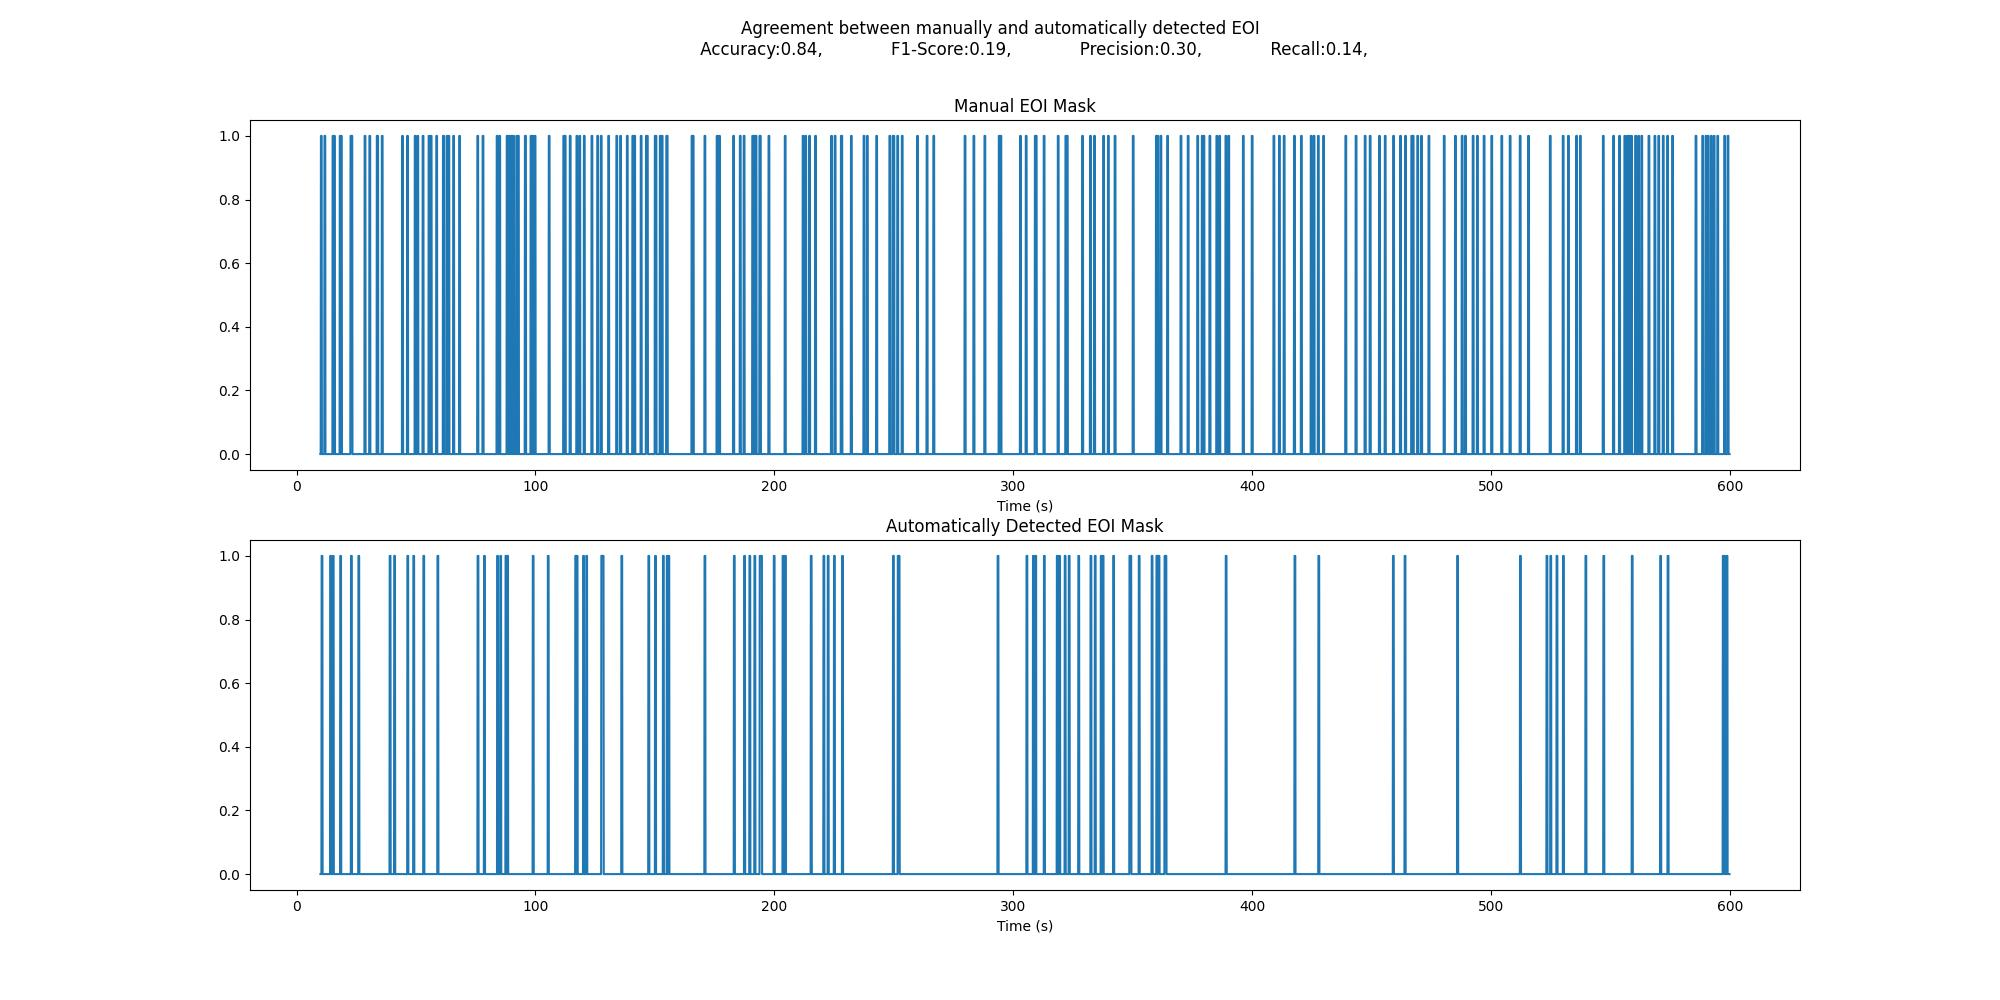
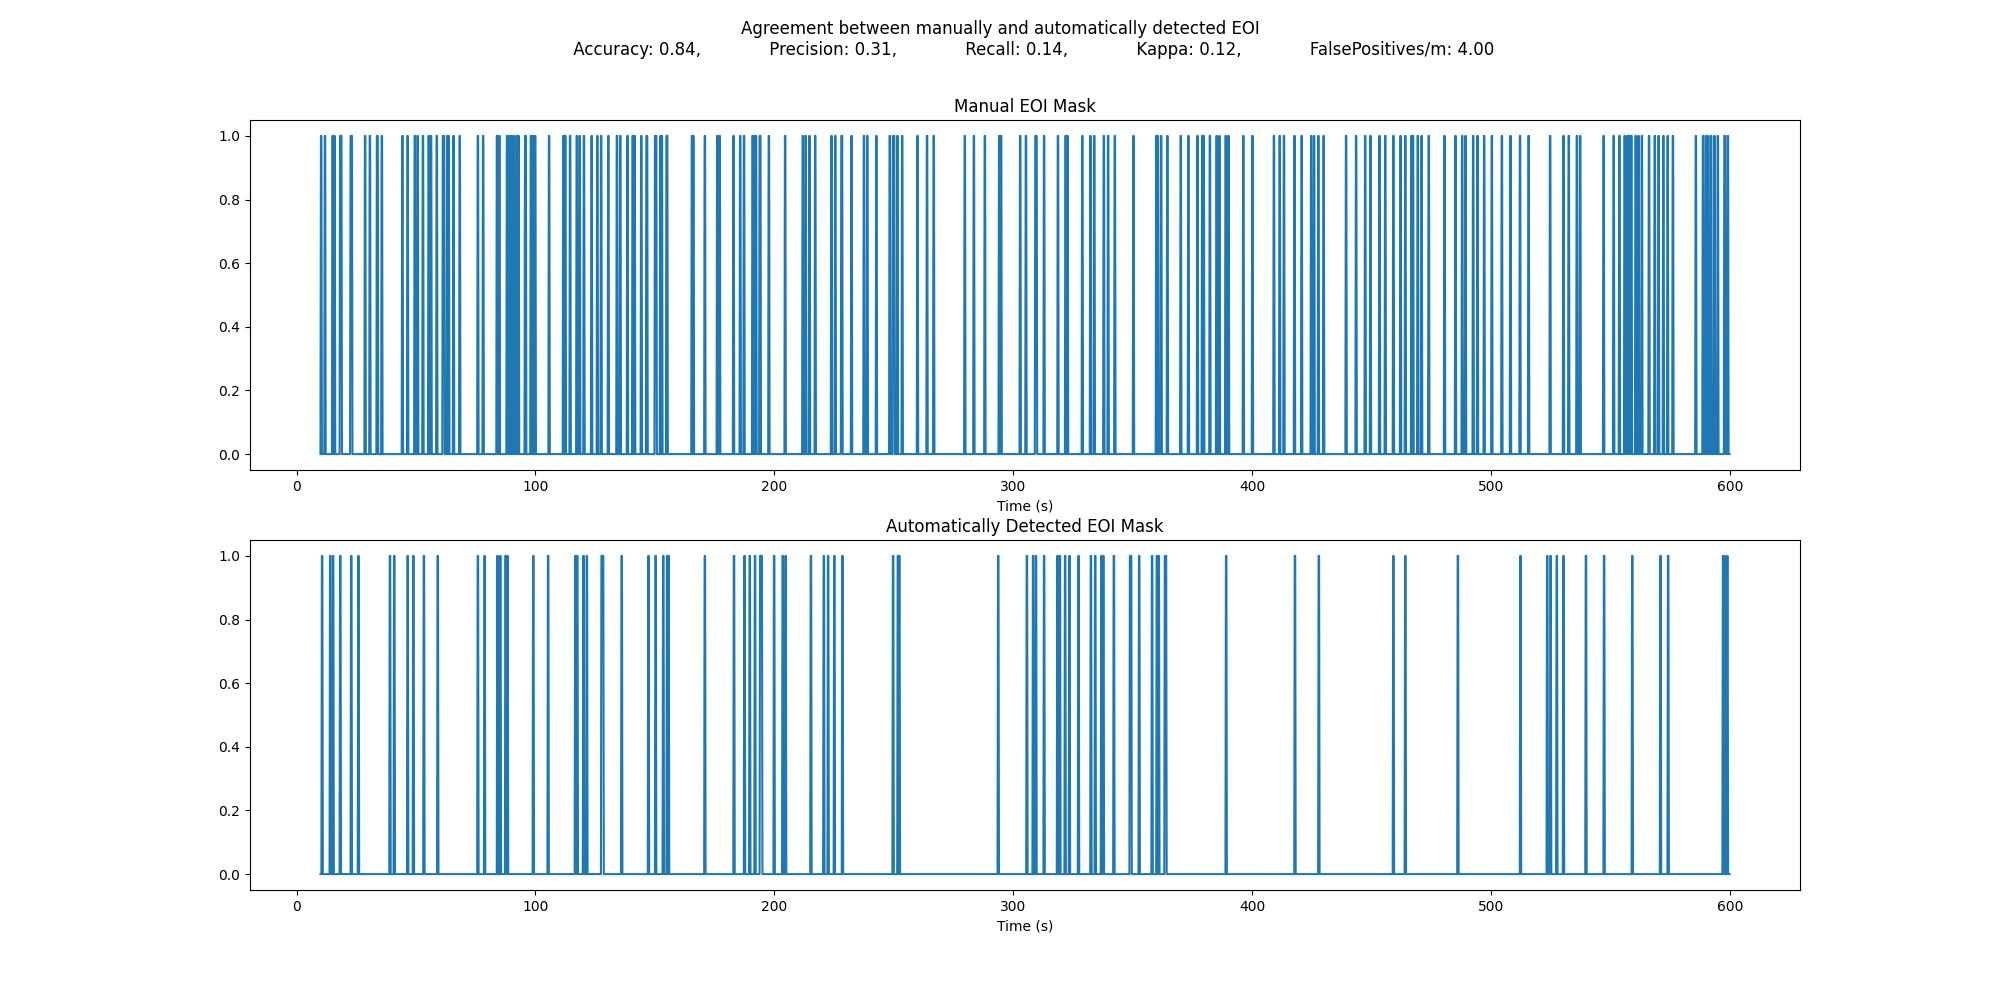
EOI_Duration is set to 400ms. Optimize calculation of performance metrics by using vectorization. Include the performance metric False Positives per Minute.

diff --git a/src/persyst_spikes_evaluator.py b/src/persyst_spikes_evaluator.py
@@ -1,14 +1,19 @@
-import os
-import re
 import mne
 import pandas as pd
 import numpy as np
 import matplotlib.pyplot as plt
 
-from sklearn.metrics import confusion_matrix, accuracy_score, f1_score, precision_score, recall_score
+from sklearn.metrics import (
+    confusion_matrix,
+    accuracy_score,
+    f1_score,
+    precision_score,
+    recall_score,
+    cohen_kappa_score,
+)
 
 
-class PersystSpikesEvaluator():
+class PersystSpikesEvaluator:
     """
     This class provides methods to evaluate Spike annotations generated with Persyst.
     """
@@ -37,13 +42,12 @@ class PersystSpikesEvaluator():
         """
         Read the Persyst IEEG data from the file.
         """
-        self.ieeg_data = mne.io.read_raw_persyst(
-            self.ieeg_filepath, verbose=False)
+        self.ieeg_data = mne.io.read_raw_persyst(self.ieeg_filepath, verbose=False)
         self.time = self.ieeg_data.times
         self.nr_samples = self.ieeg_data.n_times
         self.fs = self.ieeg_data.info["sfreq"]
 
-    def parse_eoi(self, eoi_key: str = 'Spike', visual_eoi_key: str = 'elpi'):
+    def parse_eoi(self, eoi_key: str = "Spike", visual_eoi_key: str = "elpi"):
         """
         Parse the events in the IEEG data to separate the manually and automatically detected EOIs.
 
@@ -54,29 +58,29 @@ class PersystSpikesEvaluator():
         visual_eoi_key : str, optional
             Keywords used to identify the visual EOIs, by default 'elpi'
         """
-        self.manual_eoi = []
-        self.auto_eoi = []
-        for annotation in self.ieeg_data.annotations:
-            annot_label = annotation['description']
-            annot_start_time = annotation['onset']
-            print(annot_label)
-            print(annot_start_time)
-
-            if eoi_key.lower() in annot_label.lower():
-                if visual_eoi_key in annot_label:
-                    self.manual_eoi.append(annot_start_time)
-                else:
-                    self.auto_eoi.append(annot_start_time)
-
-        self.manual_eoi = np.array(self.manual_eoi)
-        self.auto_eoi = np.array(self.auto_eoi)
+        annotations = pd.DataFrame(self.ieeg_data.annotations)
+        eoi_sel_maks = annotations["description"].str.contains(eoi_key, case=False)
+        manual_sel_mask = eoi_sel_maks & annotations["description"].str.contains(
+            visual_eoi_key, case=False
+        )
+        auto_sel_mask = eoi_sel_maks & ~annotations["description"].str.contains(
+            visual_eoi_key, case=False
+        )
+        self.manual_eoi = annotations.loc[manual_sel_mask, "onset"].to_numpy()
+        self.auto_eoi = annotations.loc[auto_sel_mask, "onset"].to_numpy()
         print(f"Number of manually detected EOI: {len(self.manual_eoi)}")
         print(f"Number of automatically detected EOI: {len(self.auto_eoi)}")
 
     def get_manual_eoi_max_time(self):
-        return np.max(self.manual_eoi)+1
+        return np.max(self.manual_eoi) + 1 if len(self.manual_eoi) > 0 else 0
 
-    def measure_eoi_types_agreement(self, eoi_duration: float = 0.400, min_time: float = 0, max_time: float = float('inf'), bin_duration: float = 0.1, min_bin_overlap: float = 0.5):
+    def measure_eoi_types_agreement(
+        self,
+        eoi_duration: float = 0.400,
+        min_time: float = 0,
+        max_time: float = float("inf"),
+        bin_duration: float = 0.1,
+    ):
         """
         Calculate the agreement between the manually and automatically detected EOI types.
 
@@ -90,79 +94,84 @@ class PersystSpikesEvaluator():
             Last time point to consider events for the agreement calculation, by default float('inf'), i.e. full length of iEEG
         bin_duration : float, optional
             Width of the time bins to use for the agreement calculation, by default 100 ms
-        min_bin_overlap : float, optional
-            Minimum overlap between adjacent time bins to consider them valid, by default 0.5%
         """
 
-        if max_time == float('inf'):
+        if max_time == float("inf"):
             max_time = self.time[-1]
 
         # Select events within min_time and max_time
-        eval_manual_eoi = self.manual_eoi[np.logical_and(
-            self.manual_eoi >= min_time, self.manual_eoi <= max_time)]
-        eval_auto_eoi = self.auto_eoi[np.logical_and(
-            self.auto_eoi >= min_time, self.auto_eoi <= max_time)]
+        eval_manual_eoi = self.manual_eoi[
+            (self.manual_eoi >= min_time) & (self.manual_eoi <= max_time)
+        ]
+        eval_auto_eoi = self.auto_eoi[
+            (self.auto_eoi >= min_time) & (self.auto_eoi <= max_time)
+        ]
 
-        self.time_bin_array, self.manual_eoi_mask = self.__fill_events_mask(eval_manual_eoi, eoi_duration,
-                                                                            min_time, max_time, bin_duration, min_bin_overlap)
+        self.time_bin_array, self.manual_eoi_mask = self.__fill_events_mask(
+            eval_manual_eoi,
+            eoi_duration,
+            min_time,
+            max_time,
+            bin_duration,
+        )
 
-        self.time_bin_array, self.auto_eoi_mask = self.__fill_events_mask(eval_auto_eoi, eoi_duration,
-                                                                          min_time, max_time, bin_duration, min_bin_overlap)
+        self.time_bin_array, self.auto_eoi_mask = self.__fill_events_mask(
+            eval_auto_eoi,
+            eoi_duration,
+            min_time,
+            max_time,
+            bin_duration,
+        )
 
-    def __fill_events_mask(self, eoi_array: np.ndarray = None, eoi_duration: float = 0.400, min_time: float = 0, max_time: float = float('inf'), bin_duration: float = 0.1, min_bin_overlap: float = 0.5):
+    def __fill_events_mask(
+        self,
+        eoi_array: np.ndarray = None,
+        eoi_duration: float = 0.400,
+        min_time: float = 0,
+        max_time: float = float("inf"),
+        bin_duration: float = 0.1,
+    ):
         """
-        This function fills a boolean mask indicating the presence of EOIs in a time series.
+        Fills the events mask.
 
         Parameters
         ----------
         eoi_array : np.ndarray, optional
-            Array of EOI times, by default None
+            Array of event onsets, by default None
         eoi_duration : float, optional
-            Duration of the events, by default 400 ms
+            Duration of the events, by default 0.400
         min_time : float, optional
-            First time point to consider events for the agreement calculation, by default 0 s
+            Minimum time to consider events, by default 0
         max_time : float, optional
-            Last time point to consider events for the agreement calculation, by default float('inf'), i.e. full length of iEEG
+            Maximum time to consider events, by default float("inf")
         bin_duration : float, optional
-            Width of the time bins to use for the agreement calculation, by default 100 ms
-        min_bin_overlap : float, optional
-            Minimum overlap between adjacent time bins to consider them valid, by default 0.5%
+            Duration of each bin, by default 0.1
 
         Returns
         -------
-        eoi_mask : np.ndarray
-            Boolean mask indicating the presence of EOIs in the time series
+        np.ndarray, np.ndarray
+            Time bin array and event mask
         """
-        eoi_half_dur = eoi_duration/2
-        min_overlap_dur = bin_duration*min_bin_overlap
+
+        eoi_half_dur = eoi_duration / 2
 
         time_bin_array = np.arange(min_time, max_time, bin_duration)
         nr_bins = len(time_bin_array)
-        eoi_mask = np.full(nr_bins, False, dtype=bool)
+        eoi_mask = np.zeros(nr_bins, dtype=bool)
 
-        # Fill the manual events mask
-        for tbidx, tbin in enumerate(time_bin_array):
-            bin_start = tbin
-            bin_end = bin_start + bin_duration
+        eoi_start = eoi_array - eoi_half_dur
+        eoi_end = eoi_array + eoi_half_dur
 
-            for eoi_idx, eoi in enumerate(eoi_array):
-                eoi_start = eoi - eoi_half_dur
-                eoi_end = eoi + eoi_half_dur
+        for start_t, end_t in zip(eoi_start, eoi_end):
+            # Adjust for cases where start or end are outside the min_time and max_time range
+            eoi_start_adj = np.maximum(start_t, min_time) - min_time
+            eoi_end_adj = np.minimum(end_t, max_time) - min_time
 
-                # EOI extends beyond bin limits
-                overlap_a = (eoi_start <= bin_start) and (eoi_end >= bin_end)
+            # The rounding guarantees that a bin must overlap at least 50% with EOI to be marked as True
+            overlap_start = np.round((eoi_start_adj) / bin_duration).astype(int)
+            overlap_end = np.round((eoi_end_adj) / bin_duration).astype(int) - 1
 
-                # EOI start is within the bin and overlaps with the bin by at least min_bin_overlap%
-                overlap_b = (eoi_start >= bin_start) and (eoi_start <= bin_end) and (
-                    (bin_end-eoi_start) >= min_overlap_dur)
-
-                # EOI end is within the bin and overlaps with the bin by at least min_bin_overlap%
-                overlap_c = (eoi_end >= bin_start) and (eoi_end <= bin_end) and (
-                    (eoi_end-bin_start) >= min_overlap_dur)
-
-                if overlap_a or overlap_b or overlap_c:
-                    eoi_mask[tbidx] = True
-                    break
+            eoi_mask[overlap_start : overlap_end + 1] = True
 
         return time_bin_array, eoi_mask
 
@@ -170,41 +179,69 @@ class PersystSpikesEvaluator():
         """
         Calculates the performance metrics between manually and automatically detected EOIs.
 
-        Returns:
-            list: A list containing the accuracy, F1-score, precision, and recall values between manually and automatically detected EOIs.
+        Returns
+        -------
+        dict
+            A dictionary containing the accuracy, F1-score, precision, recall, MCC, and specificity values between manually and automatically detected EOIs.
         """
 
-        (tn, fp, fn, tp) = confusion_matrix(
-            self.manual_eoi_mask, self.auto_eoi_mask).ravel()
+        nr_eeg_mins = self.time[-1] / 60
 
-        accuracy_val = float(tp+tn)/float(tn+fp+fn+tp)
-        f1_val = (2*tp)/(2*tp+fp+fn)
-        mcc_val = float((tp*tn)-(fp*fn)) / \
-            np.sqrt((tp+fp)*(tp+fn)*(tn+fp)*(tn+fn))
-        specificity_val = float(tn)/float(tn+fp)
-        precision_val = float(tp)/float(tp+fp)
-        recall_val = float(tp)/float(tp+fn)
+        (tn, fp, fn, tp) = confusion_matrix(
+            self.manual_eoi_mask, self.auto_eoi_mask
+        ).ravel()
+
+        accuracy_val = float(tp + tn) / float(tn + fp + fn + tp)
+        f1_val = (2 * tp) / (2 * tp + fp + fn)
+        mcc_val = float((tp * tn) - (fp * fn)) / np.sqrt(
+            (tp + fp) * (tp + fn) * (tn + fp) * (tn + fn)
+        )
+        specificity_val = float(tn) / float(tn + fp)
+        precision_val = float(tp) / float(tp + fp)
+        recall_val = float(tp) / float(tp + fn)
+
+        accuracy_val = accuracy_score(self.manual_eoi_mask, self.auto_eoi_mask)
+        f1_val = f1_score(self.manual_eoi_mask, self.auto_eoi_mask)
+        precision_val = precision_score(self.manual_eoi_mask, self.auto_eoi_mask)
+        recall_val = recall_score(self.manual_eoi_mask, self.auto_eoi_mask)
+        kappa_val = cohen_kappa_score(self.manual_eoi_mask, self.auto_eoi_mask)
+        fp_per_m = fp / nr_eeg_mins
 
         assert accuracy_val == accuracy_score(
-            self.manual_eoi_mask, self.auto_eoi_mask), "Wrong accuracy score"
+            self.manual_eoi_mask, self.auto_eoi_mask
+        ), "Wrong accuracy score"
         assert f1_val == f1_score(
-            self.manual_eoi_mask, self.auto_eoi_mask), "Wrong f1 score"
+            self.manual_eoi_mask, self.auto_eoi_mask
+        ), "Wrong f1 score"
         assert precision_val == precision_score(
-            self.manual_eoi_mask, self.auto_eoi_mask), "Wrong precision score"
+            self.manual_eoi_mask, self.auto_eoi_mask
+        ), "Wrong precision score"
         assert recall_val == recall_score(
-            self.manual_eoi_mask, self.auto_eoi_mask), "Wrong recall score"
+            self.manual_eoi_mask, self.auto_eoi_mask
+        ), "Wrong recall score"
 
-        performance_metrics = {'Accuracy': accuracy_val,
-                               'F1_Score': f1_val,
-                               'MathewsCorrCoeff': mcc_val,
-                               'Specificity': specificity_val,
-                               'Precision': precision_val,
-                               'Recall': recall_val}
+        performance_metrics = {
+            "Accuracy": accuracy_val,
+            "F1_Score": f1_val,
+            "MathewsCorrCoeff": mcc_val,
+            "Specificity": specificity_val,
+            "Precision": precision_val,
+            "Recall": recall_val,
+            "Kappa": kappa_val,
+            "FalsePositivesPerMin": fp_per_m,
+        }
 
         return performance_metrics
 
     def plot_manual_and_auto_masks(self, images_path):
+        """
+        Plots the manual and automatically detected event masks.
 
+        Parameters
+        ----------
+        images_path : str
+            Path to save the plotted images.
+        """
         perf_metrics = self.get_manual_vs_auto_performance()
 
         fig, ax = plt.subplots(nrows=2, ncols=1, figsize=(20, 10))
@@ -218,12 +255,13 @@ class PersystSpikesEvaluator():
 
         fig.suptitle(
             f"Agreement between manually and automatically detected EOI\n \
-            Accuracy:{perf_metrics['Accuracy']:.2f}, \
-            F1-Score:{perf_metrics['F1_Score']:.2f}, \
-            Precision:{perf_metrics['Precision']:.2f}, \
-            Recall:{perf_metrics['Recall']:.2f},")
+            Accuracy: {perf_metrics['Accuracy']:.2f}, \
+            Precision: {perf_metrics['Precision']:.2f}, \
+            Recall: {perf_metrics['Recall']:.2f}, \
+            Kappa: {perf_metrics['Kappa']:.2f}, \
+            FalsePositives/m: {perf_metrics['FalsePositivesPerMin']:.2f}"
+        )
 
-        image_name = images_path+"Manual_vs_Auto_Detections_Mask_Compare.jpeg"
+        image_name = images_path + "Manual_vs_Auto_Detections_Mask_Compare.jpeg"
         plt.savefig(image_name)
-        # plt.show(block=True)
-        # plt.close()
+        plt.close()

diff --git a/src/main.py b/src/main.py
@@ -2,18 +2,19 @@ import os
 from persyst_spikes_evaluator import PersystSpikesEvaluator
 
 this_file_path = os.path.dirname(os.path.abspath(__file__))
-workspacePath = this_file_path[:this_file_path.rfind(os.path.sep)]+os.path.sep
+workspacePath = this_file_path[: this_file_path.rfind(os.path.sep)] + os.path.sep
 
 ieeg_data_dir = "C:/Users/HFO/Documents/Persyst_Project/iEEG_Archives/"
-ieeg_fn = "Test.lay"
+ieeg_fn = "DLP_Spike_Annotation_Test1.lay"
+
 ieeg_filepath = ieeg_data_dir + ieeg_fn
 
-images_path = workspacePath+os.path.sep+"Images"+os.path.sep
+images_path = workspacePath + os.path.sep + "Images" + os.path.sep
 os.makedirs(images_path, exist_ok=True)
 
 evaluator = PersystSpikesEvaluator(ieeg_filepath=ieeg_filepath)
 evaluator.read_ieeg_data()
-evaluator.parse_eoi(eoi_key='Spike', visual_eoi_key='elpi')
+evaluator.parse_eoi(eoi_key="Spike", visual_eoi_key="elpi")
 
 
 # Define which iEEG time-range to use for the calculation of the agreement between detectors. Events outside of this range will be ignored.
@@ -21,11 +22,12 @@ manual_eoi_min_time = 10
 manual_eoi_max_time = evaluator.get_manual_eoi_max_time()
 manual_eoi_max_time = 600
 
-agreement_params = {'eoi_duration': 0.4,
-                    'min_time': manual_eoi_min_time,
-                    'max_time': manual_eoi_max_time,
-                    'bin_duration': 0.1,
-                    'min_bin_overlap': 0.5}
+agreement_params = {
+    "eoi_duration": 0.4,
+    "min_time": manual_eoi_min_time,
+    "max_time": manual_eoi_max_time,
+    "bin_duration": 0.2,
+}
 evaluator.measure_eoi_types_agreement(**agreement_params)
 perf_metrics = evaluator.get_manual_vs_auto_performance()
 evaluator.plot_manual_and_auto_masks(images_path=images_path)
